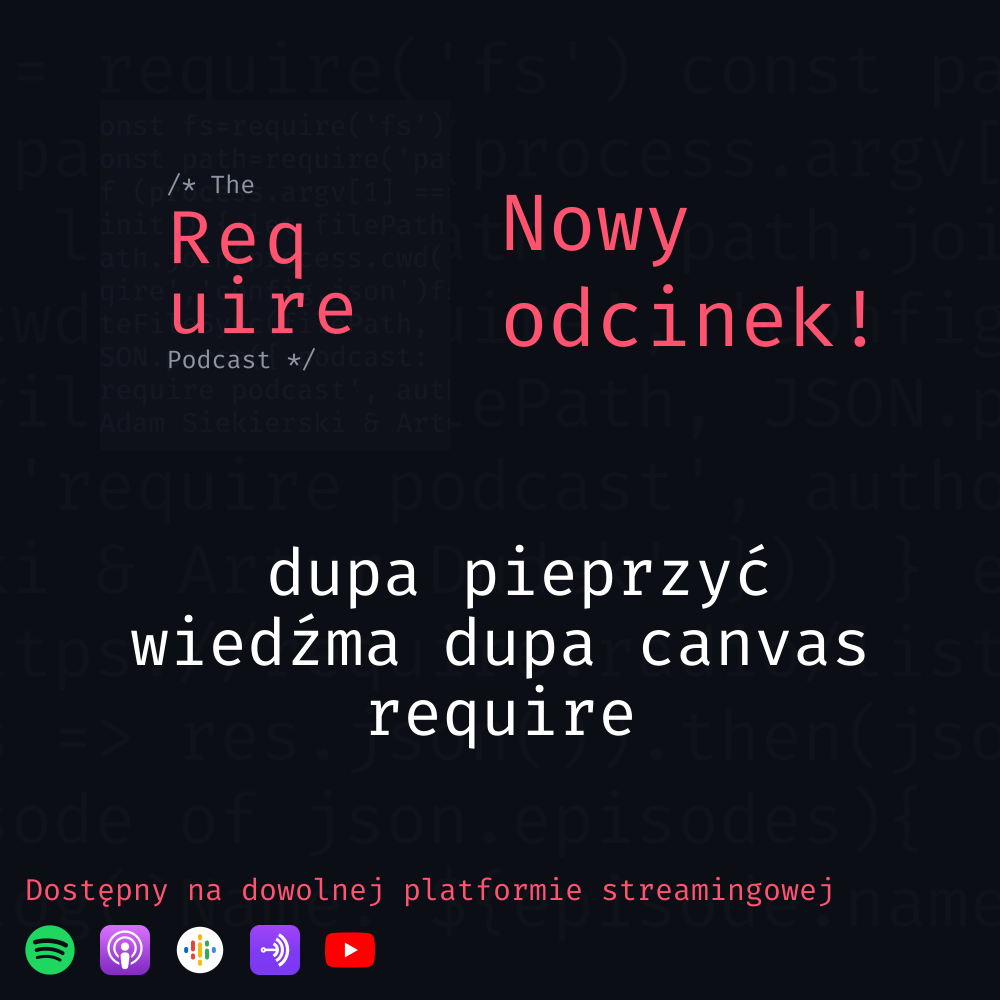
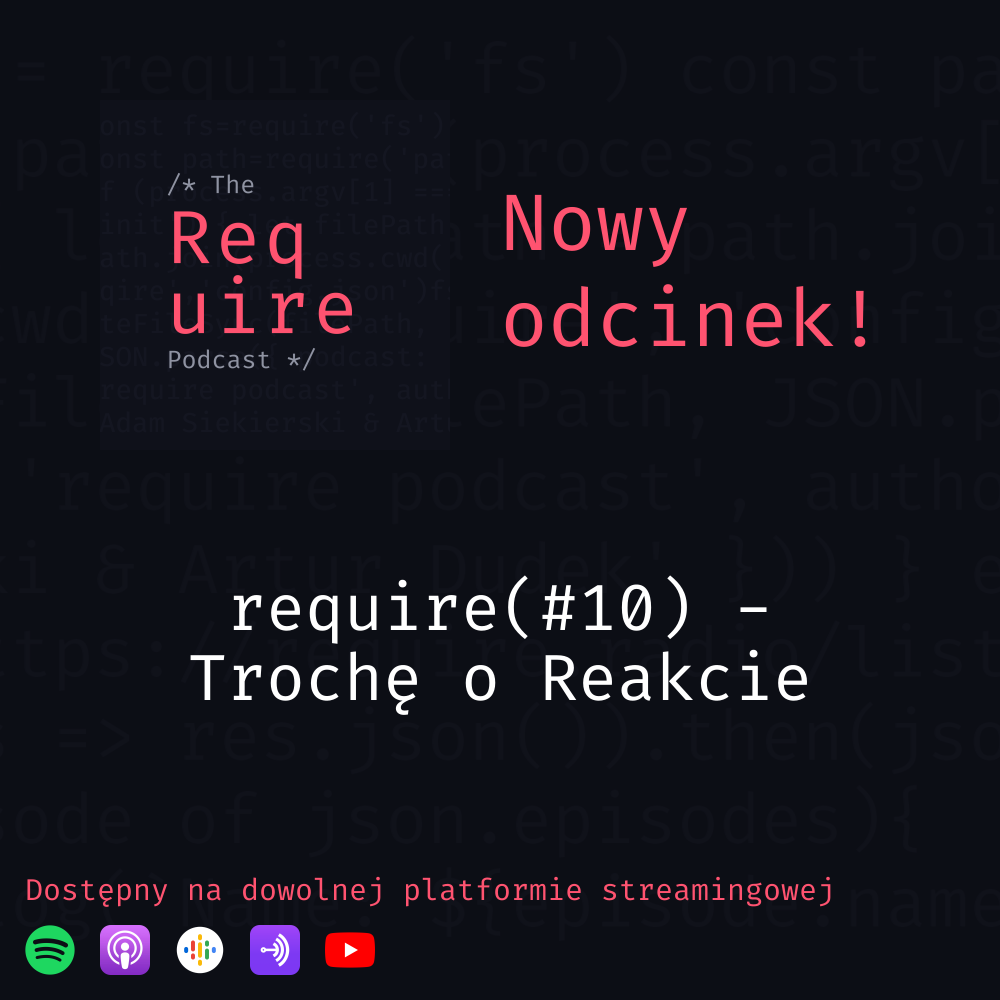
Base of twitter picture

Changed region(s): [[0.124, 0.558, 0.868, 0.744]]

diff --git a/twitter.js b/twitter.js
@@ -1,0 +1,49 @@
+const { createCanvas, loadImage, registerFont } = require('canvas');
+const fs = require('fs');
+const wrapText = require('./utils/wrapText');
+
+const EPISODE_TITLE = process.argv[2];
+const EPISODE_DESCRIPTION = process.argv[3];
+
+registerFont('assets/FiraCode.ttf', { family: 'FiraCode' });
+
+(async function () {
+  const canvas = createCanvas(1200, 675);
+  const ctx = canvas.getContext('2d');
+
+  // Background
+  const bg = await loadImage('assets/Background.png');
+  const bgScale = Math.max(canvas.width / bg.width, canvas.height / bg.height);
+  const bgX = canvas.width / 2 - (bg.width / 2) * bgScale;
+  const bgY = canvas.height / 2 - (bg.height / 2) * bgScale;
+  ctx.drawImage(bg, bgX, bgY, bg.width * bgScale, bg.height * bgScale);
+
+  // Logo
+  const logo = await loadImage('assets/RequireLogo.png');
+  ctx.drawImage(logo, 50, 100, 475, 475);
+
+  // Title
+  ctx.font = '50px FiraCode';
+  ctx.textBaseline = 'top';
+  ctx.fillStyle = '#ff5370';
+  ctx.textAlign = 'left';
+  const titleLines = wrapText(EPISODE_TITLE, 20);
+  titleLines.map((line, i) => {
+    ctx.fillText(line, 575, 100 + i * 60);
+  });
+
+  // Description
+  ctx.font = '25px FiraCode';
+  ctx.fillStyle = 'white';
+  const titleLinesHeight = titleLines.length * 60;
+  const descriptionLines = wrapText(EPISODE_DESCRIPTION, 39);
+  descriptionLines.map((line, i) => {
+    ctx.fillText(line, 575, 150 + titleLinesHeight + 30 * i);
+  });
+
+  // Save to file
+  const stream = canvas.createPNGStream();
+  const out = fs.createWriteStream('./output/twitter.png');
+
+  stream.pipe(out);
+})();

diff --git a/instagram.js b/instagram.js
@@ -1,27 +1,10 @@
 const { createCanvas, loadImage, registerFont } = require('canvas');
 const fs = require('fs');
+const wrapText = require('./utils/wrapText');
 
-const EPISODE_TITLE = 'dupa pieprzyć wiedźma dupa canvas require';
+const EPISODE_TITLE = process.argv[2];
 
 registerFont('assets/FiraCode.ttf', { family: 'FiraCode' });
-
-function wrapText(text, maxLen) {
-  const lines = [''];
-  const words = text.split(' ');
-  let currentLineLength = 0;
-
-  for (let word of words) {
-    currentLineLength += word.length + 1;
-    if (currentLineLength > maxLen) {
-      lines.unshift(word);
-      currentLineLength = word.length + 1;
-    } else {
-      lines[0] += ' ' + word;
-    }
-  }
-
-  return lines.reverse();
-}
 
 (async function () {
   const canvas = createCanvas(1000, 1000);
@@ -29,9 +12,9 @@ function wrapText(text, maxLen) {
 
   // Background
   const bg = await loadImage('assets/Background.png');
-  const bgScale = Math.max(1000 / bg.width, 1000 / bg.height);
-  const bgX = 1000 / 2 - (bg.width / 2) * bgScale;
-  const bgY = 1000 / 2 - (bg.height / 2) * bgScale;
+  const bgScale = Math.max(canvas.width / bg.width, canvas.height / bg.height);
+  const bgX = canvas.width / 2 - (bg.width / 2) * bgScale;
+  const bgY = canvas.height / 2 - (bg.height / 2) * bgScale;
   ctx.drawImage(bg, bgX, bgY, bg.width * bgScale, bg.height * bgScale);
 
   // Logo

diff --git a/utils/wrapText.js b/utils/wrapText.js
@@ -1,0 +1,17 @@
+module.exports = function wrapText(text, maxLen) {
+  const lines = [''];
+  const words = text.split(' ');
+  let currentLineLength = 0;
+
+  for (let word of words) {
+    currentLineLength += word.length + 1;
+    if (currentLineLength > maxLen) {
+      lines.unshift(word);
+      currentLineLength = word.length + 1;
+    } else {
+      lines[0] += lines[0] ? ' ' + word : word;
+    }
+  }
+
+  return lines.reverse();
+};

diff --git a/index.js b/index.js
@@ -1,1 +1,2 @@
 require('./instagram.js');
+require('./twitter');
